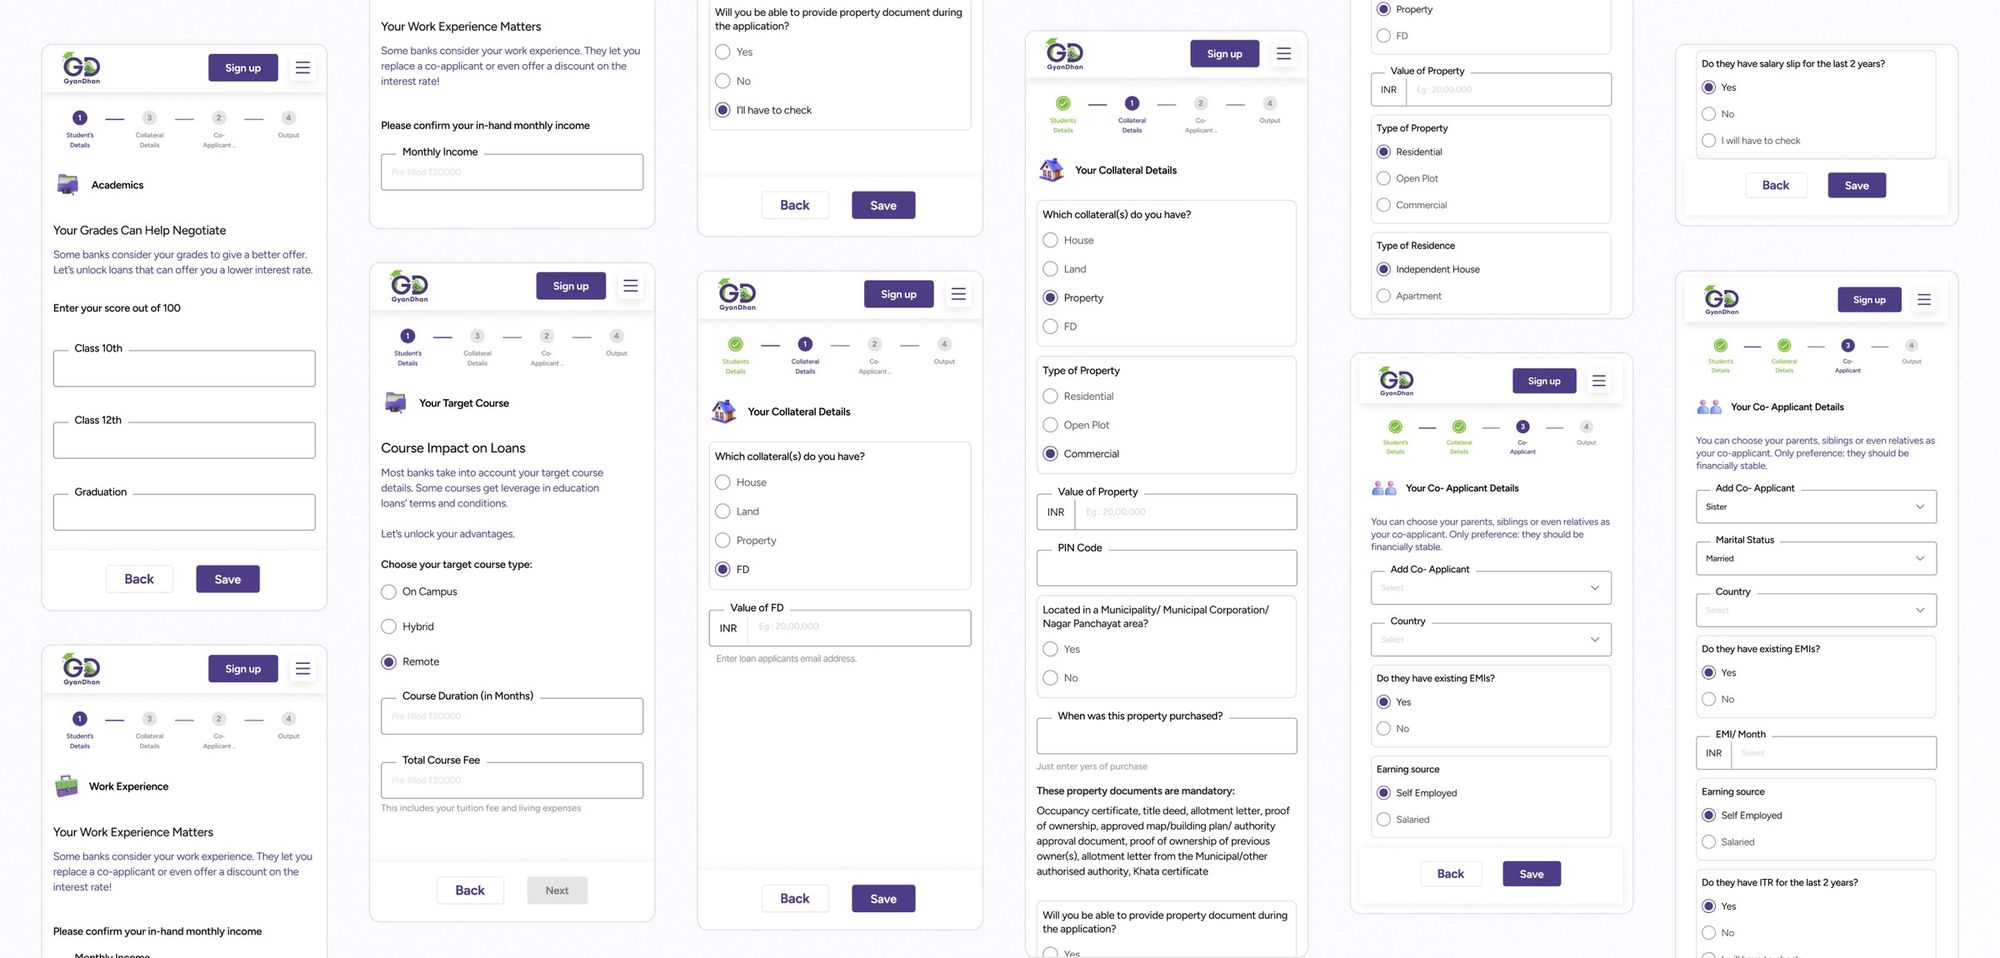
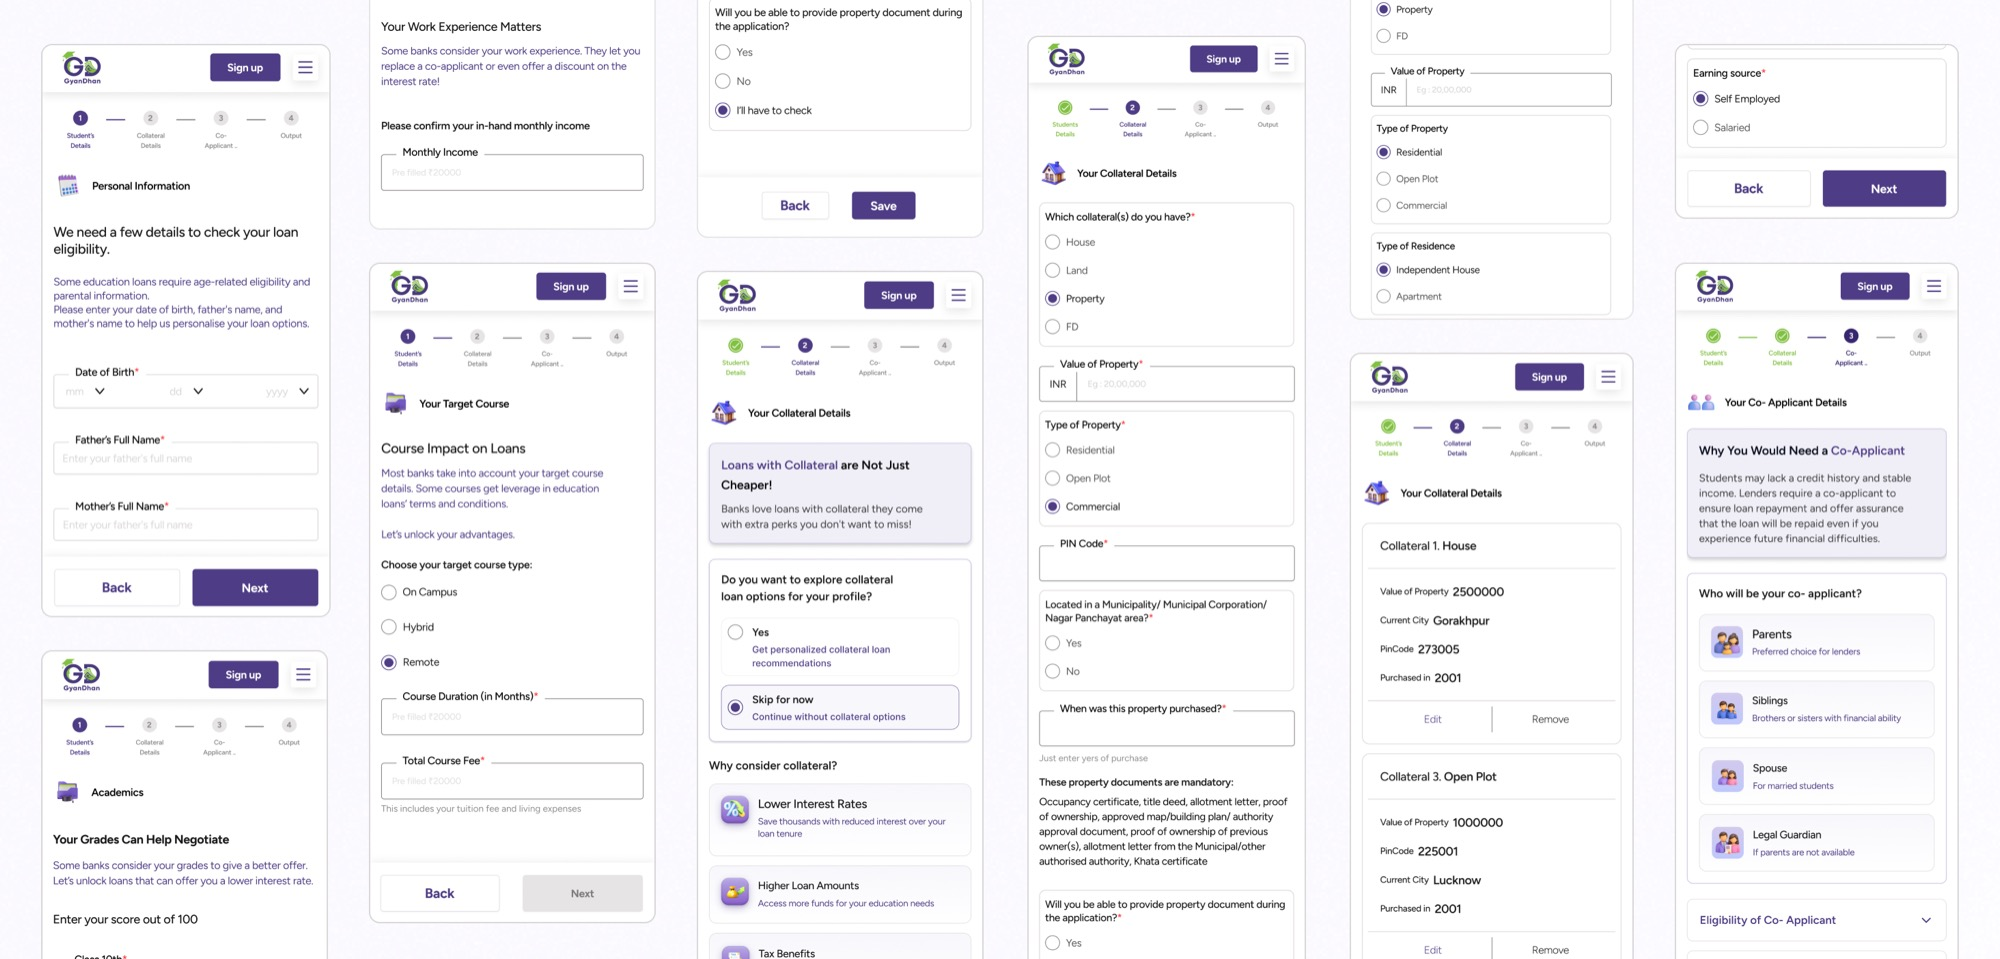
Update Form Screens image in loan journey case study

diff --git a/loan-journey.html b/loan-journey.html
@@ -622,7 +622,7 @@
   <img src="loan-journey-assets/lj-06.jpg" width="2000" height="910" loading="lazy" decoding="async" alt="Self-initiation CTA banner">
 </figure>
 <figure class="figure wide">
-  <img src="loan-journey-assets/lj-07.jpg" width="2000" height="958" loading="lazy" decoding="async" alt="Form screens">
+  <img src="loan-journey-assets/lj-07.jpg" width="2000" height="959" loading="lazy" decoding="async" alt="Form screens">
 </figure>
 
 <article class="section read">
